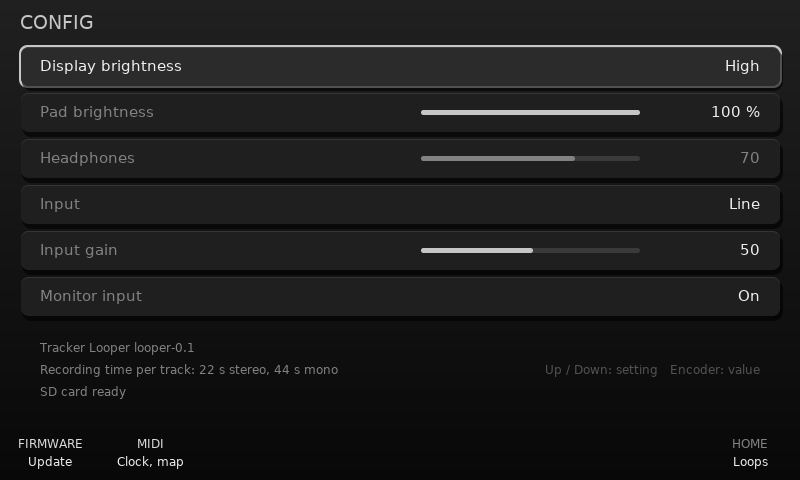
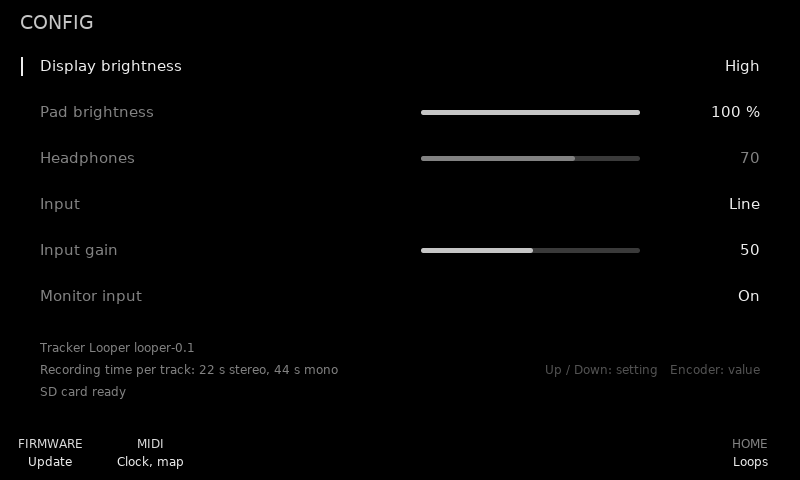
Minimal pages: plain black, no cards
Every page is on plain black like the lanes (no gradient). Rows on the
Input, Config, MIDI, Firmware and File pages lose their cards and amber
outlines; the selected row is marked by a short bright bar at its left
(App::mark) and brighter text. The mixer's strips, cells and name tags
go the same way. The FX pages lose the box behind the effect picture,
the loop editor the box around its waveform and the fill behind the
selection, and the knobs their filled body. The popups over the lanes
keep their backing. README text and screenshots follow.

diff --git a/src/looper/app.cpp b/src/looper/app.cpp
@@ -34,7 +34,7 @@ constexpr int kKeyY0 = 436, kKeyY1 = 476, kKeyW = 100;   // F1..F8 cells, each o
 
 // Palette: greyscale. color() turns anything else to its grey too (by
 // luminance), so the accents below are just brighter or darker greys.
-constexpr uint32_t kBg = 0x101010, kLane = 0x1F1F1F, kLaneSel = 0x2B2B2B, kCell = 0x262626;
+constexpr uint32_t kBg = 0x101010;
 constexpr uint32_t kInk = 0xEEEEEE, kDim = 0x828282, kFaint = 0x3A3A3A;
 constexpr uint32_t kRed = 0xFFFFFF, kAmber = 0xC6C6C6;   // recording = the brightest; the page accent
 constexpr uint32_t kTrackColor[kTracks] = {0xF4F4F4, 0xDCDCDC, 0xC4C4C4, 0xACACAC};
@@ -1046,6 +1046,11 @@ void App::well(int x0, int y0, int x1, int y1, int radius, uint32_t fill) {
     fillRect(x0, y0 + 1, x1, y1, radius);
 }
 
+void App::mark(int x, int y0, int y1) {
+    color(kInk);
+    fillRect(x, y0, x + 3, y1, 1);
+}
+
 void App::alpha(uint8_t a) {
     d_->colorA(a);
     ++words_;
@@ -1115,12 +1120,10 @@ void App::scissorOff() { scissor(0, 0, 800, 480); }
 void App::render(uint32_t now) {
     words_ = 0;
     d_->dlStart();
-    // The lanes sit on plain black; the other pages on a top-lit gradient.
-    const bool lanes = fxPage_ < 0 && !edit_ && !config_ && !mixer_ && !file_ && !inPage_ && !manual_;
-    d_->clearColorRGB(lanes ? 0 : r8(kBg), lanes ? 0 : g8(kBg), lanes ? 0 : b8(kBg));
+    // Every page on plain black.
+    d_->clearColorRGB(0, 0, 0);
     d_->clear(true, true, true);
-    if (!lanes) d_->gradient(0, 0, 0x202020, 0, 479, 0x080808);   // light falls from the top
-    words_ += 8;
+    words_ += 2;
 
     if (fxPage_ >= 0) drawFxPage(now);
     else if (edit_) drawEditPage(now);
@@ -1832,16 +1835,8 @@ void App::drawStrip(int s) {
     const bool emptyTrack = s < kTracks && TrackState(engine_.view(s).state.load()) == TrackState::kEmpty;
     char buf[16];
 
-    panel(x0, 6, x1, 428, 8, sel ? kLaneSel : kLane);
-    color(scale(sc, emptyTrack ? 0.35f : 0.85f));
-    fillRect(x0 + 4, 10, x1 - 4, 36, 6);
-    color(emptyTrack ? kDim : kBg);
+    color(sel ? kInk : (emptyTrack ? kFaint : kDim));
     text(cx, 23, kFontSmall, Disp::kOptCenter, kStripName[s]);
-
-    auto outline = [&](int bx0, int by0, int bx1, int by1) {
-        color(sc);
-        fillRect(bx0 - 2, by0 - 2, bx1 + 2, by1 + 2, 8);
-    };
 
     // Two small parameters: label, value, bar. Track sends use their slot's colour.
     for (int row = 0; row < 2; ++row) {
@@ -1849,8 +1844,7 @@ void App::drawStrip(int s) {
         int t, k;
         if (!mixParam(s, row, p, t, k)) continue;
         const int by0 = 52 + row * 64, by1 = by0 + 58;
-        if (sel && row_ == row) outline(x0 + 4, by0, x1 - 4, by1);
-        well(x0 + 4, by0, x1 - 4, by1, 6, kCell);
+        if (sel && row_ == row) mark(x0 + 2, by0 + 8, by1 - 8);
         const char* label;
         float fr;
         if (k >= 0) {
@@ -1885,8 +1879,7 @@ void App::drawStrip(int s) {
     auto valueText = [&](uint8_t v) { std::snprintf(buf, sizeof buf, "%u", unsigned(v)); };
     auto frac = [](uint8_t v) { return float(v) / 100.0f; };
     const int fy0 = 184, fy1 = 424;
-    if (sel && row_ == 2) outline(x0 + 4, fy0, x1 - 4, fy1);
-    well(x0 + 4, fy0, x1 - 4, fy1, 6, kCell);
+    if (sel && row_ == 2) mark(x0 + 2, fy0 + 8, fy1 - 8);
     color(kDim);
     text(cx, fy0 + 15, kFontSmall, Disp::kOptCenter, s < kTracks || s == 6 ? "Level" : "Return");
     const uint8_t v = engine_.mix(p, t);
@@ -2205,11 +2198,7 @@ void App::drawInput() {
         for (int r = 0; r < kInRows[c]; ++r) {
             const int y0 = 46 + r * 48, y1 = y0 + 40, cy = (y0 + y1) / 2;
             const bool sel = inCol_ == c && inRow_ == r;
-            if (sel) {
-                color(kAmber);
-                fillRect(x0 - 2, y0 - 2, x1 + 2, y1 + 2, 9);
-            }
-            panel(x0, y0, x1, y1, 8, sel ? kLaneSel : kLane);
+            if (sel) mark(x0, y0 + 10, y1 - 10);
             const char* name = kInName[c][r];
             if (c == 0 && r == 2) {
                 std::snprintf(buf, sizeof buf, "Track %d channels", selected_ + 1);
@@ -2498,11 +2487,7 @@ void App::drawMidi() {
     // Left: the clock and what is coming in.
     static const char* const kClock[3] = {"Off", "Send", "Follow"};
     const bool sel0 = midiRow_ == 0;
-    if (sel0) {
-        color(kAmber);
-        fillRect(18, 44, 342, 92, 9);
-    }
-    panel(20, 46, 340, 90, 8, sel0 ? kLaneSel : kLane);
+    if (sel0) mark(20, 56, 80);
     color(sel0 ? kInk : kDim);
     text(36, 68, kFontBody, Disp::kOptCenterY, "Clock");
     color(kInk);
@@ -2529,11 +2514,7 @@ void App::drawMidi() {
         const int y0 = 46 + a * 46, y1 = y0 + 40, cy = (y0 + y1) / 2;
         const bool sel = midiRow_ == a + 1;
         const bool waiting = midi_.learning() == a;
-        if (sel) {
-            color(waiting ? kInk : kAmber);
-            fillRect(358, y0 - 2, 782, y1 + 2, 9);
-        }
-        panel(360, y0, 780, y1, 8, sel ? kLaneSel : kLane);
+        if (sel) mark(360, y0 + 10, y1 - 10);
         color(sel ? kInk : kDim);
         text(376, cy, kFontBody, Disp::kOptCenterY, kMidiActionName[a]);
         const MidiBinding& mb = cfg_.midiMap[a];
@@ -2564,11 +2545,7 @@ void App::drawFirmware() {
         const int i = first + r;
         const int y0 = 46 + r * 46, y1 = y0 + 40;
         const bool sel = fwSel_ == i;
-        if (sel) {
-            color(kAmber);
-            fillRect(18, y0 - 2, 782, y1 + 2, 9);
-        }
-        panel(20, y0, 780, y1, 8, sel ? kLaneSel : kLane);
+        if (sel) mark(20, y0 + 10, y1 - 10);
         color(sel ? kInk : kDim);
         text(40, (y0 + y1) / 2, kFontBody, Disp::kOptCenterY, fw_[i].name);
         const bool running = std::strcmp(fw_[i].name, mine) == 0;
@@ -2610,11 +2587,7 @@ void App::drawConfig() {
     for (int r = 0; r < kCfgRows; ++r) {
         const int y0 = 46 + r * 46, y1 = y0 + 40;
         const bool sel = cfgRow_ == r;
-        if (sel) {
-            color(kAmber);
-            fillRect(18, y0 - 2, 782, y1 + 2, 9);
-        }
-        panel(20, y0, 780, y1, 8, sel ? kLaneSel : kLane);
+        if (sel) mark(20, y0 + 10, y1 - 10);
         color(sel ? kInk : kDim);
         text(40, (y0 + y1) / 2, kFontBody, Disp::kOptCenterY, kCfgName[r]);
         float frac = -1.0f;   // a bar for the levels
@@ -2703,7 +2676,6 @@ void App::drawFile() {
     text(780, 22, kFontSmall, Disp::kOptRightX | Disp::kOptCenterY, card ? "SD card ready" : "No SD card");
 
     // Projects (left)
-    panel(12, 42, 392, 428, 9, kLane);
     color(kDim);
     text(28, 60, kFontSmall, Disp::kOptCenterY, "PROJECTS");
     const int n = files_.projectCount();
@@ -2718,18 +2690,17 @@ void App::drawFile() {
     for (int i = first; i < n && i < first + rows; ++i) {
         const int y0 = 76 + (i - first) * 38, y1 = y0 + 32;
         const bool sel = i == projSel_, cur = files_.projectNumber(i) == files_.current();
-        well(24, y0, 380, y1, 6, sel ? scale(kAmber, 0.85f) : kCell);
+        if (sel) mark(24, y0 + 7, y1 - 7);
         std::snprintf(buf, sizeof buf, "Project %03d", files_.projectNumber(i));
-        color(sel ? kBg : kInk);
+        color(sel ? kInk : kDim);
         text(40, (y0 + y1) / 2, kFontBody, Disp::kOptCenterY, buf);
         if (cur) {
-            color(sel ? kBg : kAmber);
+            color(kAmber);
             text(364, (y0 + y1) / 2, kFontSmall, Disp::kOptRightX | Disp::kOptCenterY, "current");
         }
     }
 
     // Tracks and the job (right)
-    panel(408, 42, 788, 428, 9, kLane);
     color(kDim);
     text(424, 60, kFontSmall, Disp::kOptCenterY, "TRACKS");
     for (int t = 0; t < kTracks; ++t) {
@@ -2886,7 +2857,6 @@ void App::drawEditPage(uint32_t now) {
 
     // The waveform: the selection bright, the rest dim; grid, markers, playhead.
     const int wx = 20, wy = 48, wx1 = wx + kEditW, wy1 = wy + kEditH;
-    well(wx - 4, wy - 4, wx1 + 4, wy1 + 4, 8, 0x050505);
     const int xa = wx + int(uint64_t(kEditW) * editA_ / len), xb = wx + int(uint64_t(kEditW) * editB_ / len);
     if (editValid_) {
         auto part = [&](int x0, int x1, float k) {
@@ -2901,11 +2871,7 @@ void App::drawEditPage(uint32_t now) {
         part(xb, wx1, 0.3f);
         scissorOff();
     }
-    drawGrid(t, wx, wy, len, kEditW, kEditH);
-    color(tc);
-    alpha(40);
-    fillRect(xa, wy, xb, wy1, 0);
-    alpha(255);
+    drawGrid(t, wx, wy, len, kEditW, kEditH);   // the selection shows as the bright part
     for (int mk = 0; mk < 2; ++mk) {
         const int x = mk ? xb : xa;
         const bool sel = editMarker_ == mk;
@@ -2985,9 +2951,7 @@ void App::drawKnob(int cx, int cy, int r, float frac, float shown, uint32_t col,
         arc(cx, cy, float(r), kA0, kA0 + kSpan * shown, 2 + int(22.0f * shown));
     }
     words_ += 1;
-    // Body and pointer
-    color(0x1A212C);
-    dot(cx, cy, r - 9);
+    // The pointer (no body: the arcs carry it)
     const float a = kA0 + kSpan * shown;
     color(kInk);
     d_->lineWidth(3 * 16);
@@ -3189,8 +3153,6 @@ void App::drawFxPage(uint32_t now) {
         color(kDim);
         text(780, 22, kFontSmall, Disp::kOptRightX | Disp::kOptCenterY, "switching...");
     }
-    color(0x05070A);
-    fillRect(12, 42, 788, 214, 10);
     drawFxVisual(slot, now);
 
     // The knobs over F2..F5, the return over F6 (F1 opens the type bar).

diff --git a/src/looper/app.h b/src/looper/app.h
@@ -123,6 +123,7 @@ private:
     // sunken one (dark top edge, lit bottom edge).
     void panel(int x0, int y0, int x1, int y1, int radius, uint32_t fill);
     void well(int x0, int y0, int x1, int y1, int radius, uint32_t fill);
+    void mark(int x, int y0, int y1);   // the selection: a short bright bar left of a row
     void hline(int x0, int x1, int y, int width16 = 16);
     void vline(int x, int y0, int y1, int width16 = 16);
     void dot(int x, int y, int radius);

diff --git a/README.md b/README.md
@@ -185,9 +185,10 @@ mouse wheel = encoder. The panel is clickable.
 
 The screen is the four track lanes and, along the bottom, the labels of the
 eight screen keys, each centred over its key as on the stock Tracker. The whole
-interface is greyscale: shades of grey for depth (a soft light from the top,
-raised panels with shadows and lit edges, waveforms set into the lanes), the
-four tracks told apart by slightly different greys. The lanes
+interface is greyscale and minimal: every page is plain black with no cards or
+boxes, the selected row or strip marked by a short bright bar at its left and
+brighter text, the four tracks told apart by slightly different greys (only
+the popups over the lanes keep a backing, to stay readable). The lanes
 are waveforms only, the full width of the screen; a tag in each lane's corner
 gives its number and, when they apply, its length, mode (other than Forward)
 and Muted. The selected track's state is on the keys: REC lights up while it
